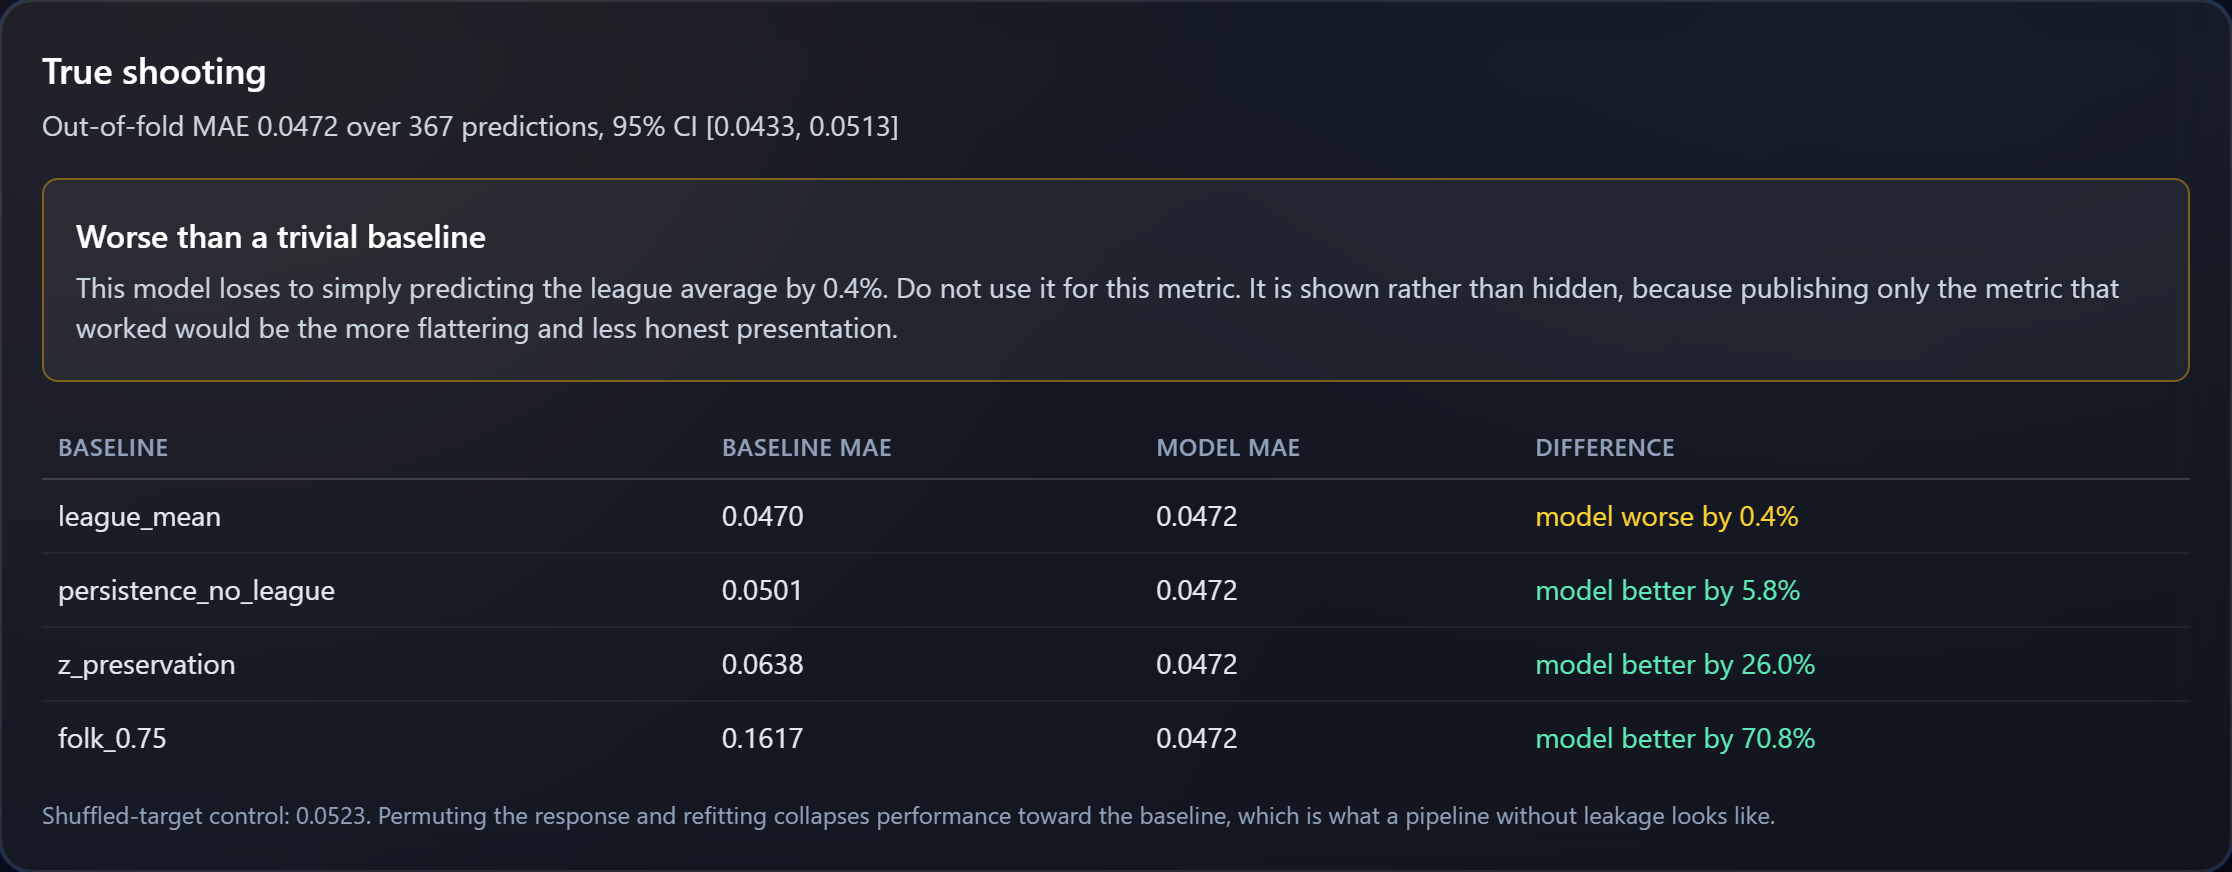
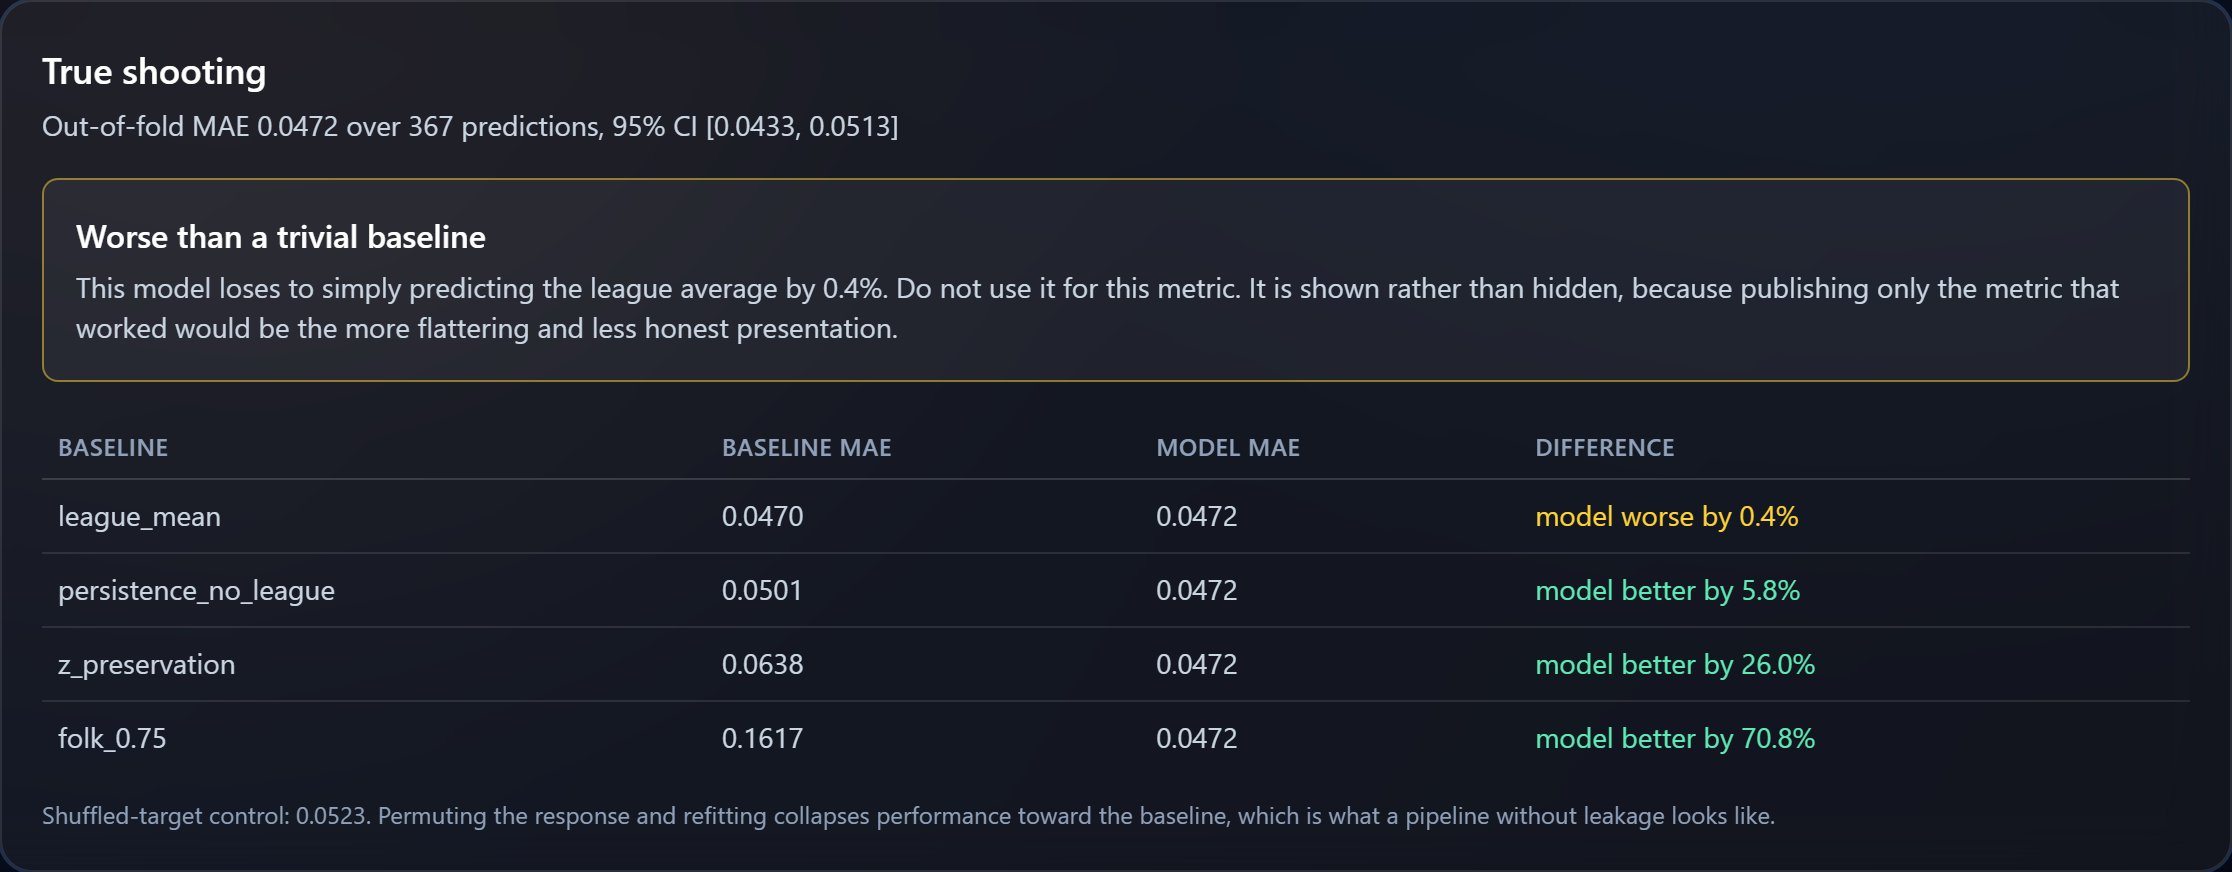
Pin the screenshots to dark, and refresh them
The light theme had an effect nobody asked for: headless Chromium reports
`prefers-color-scheme: light`, which did not matter while the site was dark-only
and does now. The first `npm run shots` after it landed re-rendered every README
image in the wrong theme, and nothing about the run looked wrong — the script's
guards check which card it photographed, not what colour it came out.

`colorScheme: "dark"` is now explicit. Dark is what the README, the hero image
and the social card have always shown.

Regenerated against the full snapshot, so the header now shows the search box.
All ten card indices still resolved, which was the open question: the form went
into `<header>`, outside the `main > div` the script indexes into.

CLAUDE.md records the other half of that trap. `shots` photographs whatever is
in the local D1, and `db:load` and `db:load:fixture` write to the same database
— running it after seeding for e2e gives the README pictures of the
sixty-person test fixture, which is a wrong image that looks like a right one.

diff --git a/CLAUDE.md b/CLAUDE.md
@@ -87,6 +87,13 @@ npm run e2e        # Playwright: 64 tests, both colour schemes, axe + contrast
 npm run shots      # README screenshots (needs both dev servers up)
 ```
 
+`shots` photographs whatever is in the local D1, and `db:load` and
+`db:load:fixture` write to the same database. Run `db:load` first or the README
+gets pictures of the sixty-person test fixture. It also pins `colorScheme:
+"dark"`: headless Chromium asks for light, which did not matter while the site
+was dark-only and silently re-rendered every README image the first time it ran
+after the light theme landed.
+
 Everything `gen` writes is derived and must never be hand-edited; the
 `contracts` CI job regenerates and fails on any diff. It checks
 `git status --porcelain` rather than `git diff --exit-code`, because the latter
